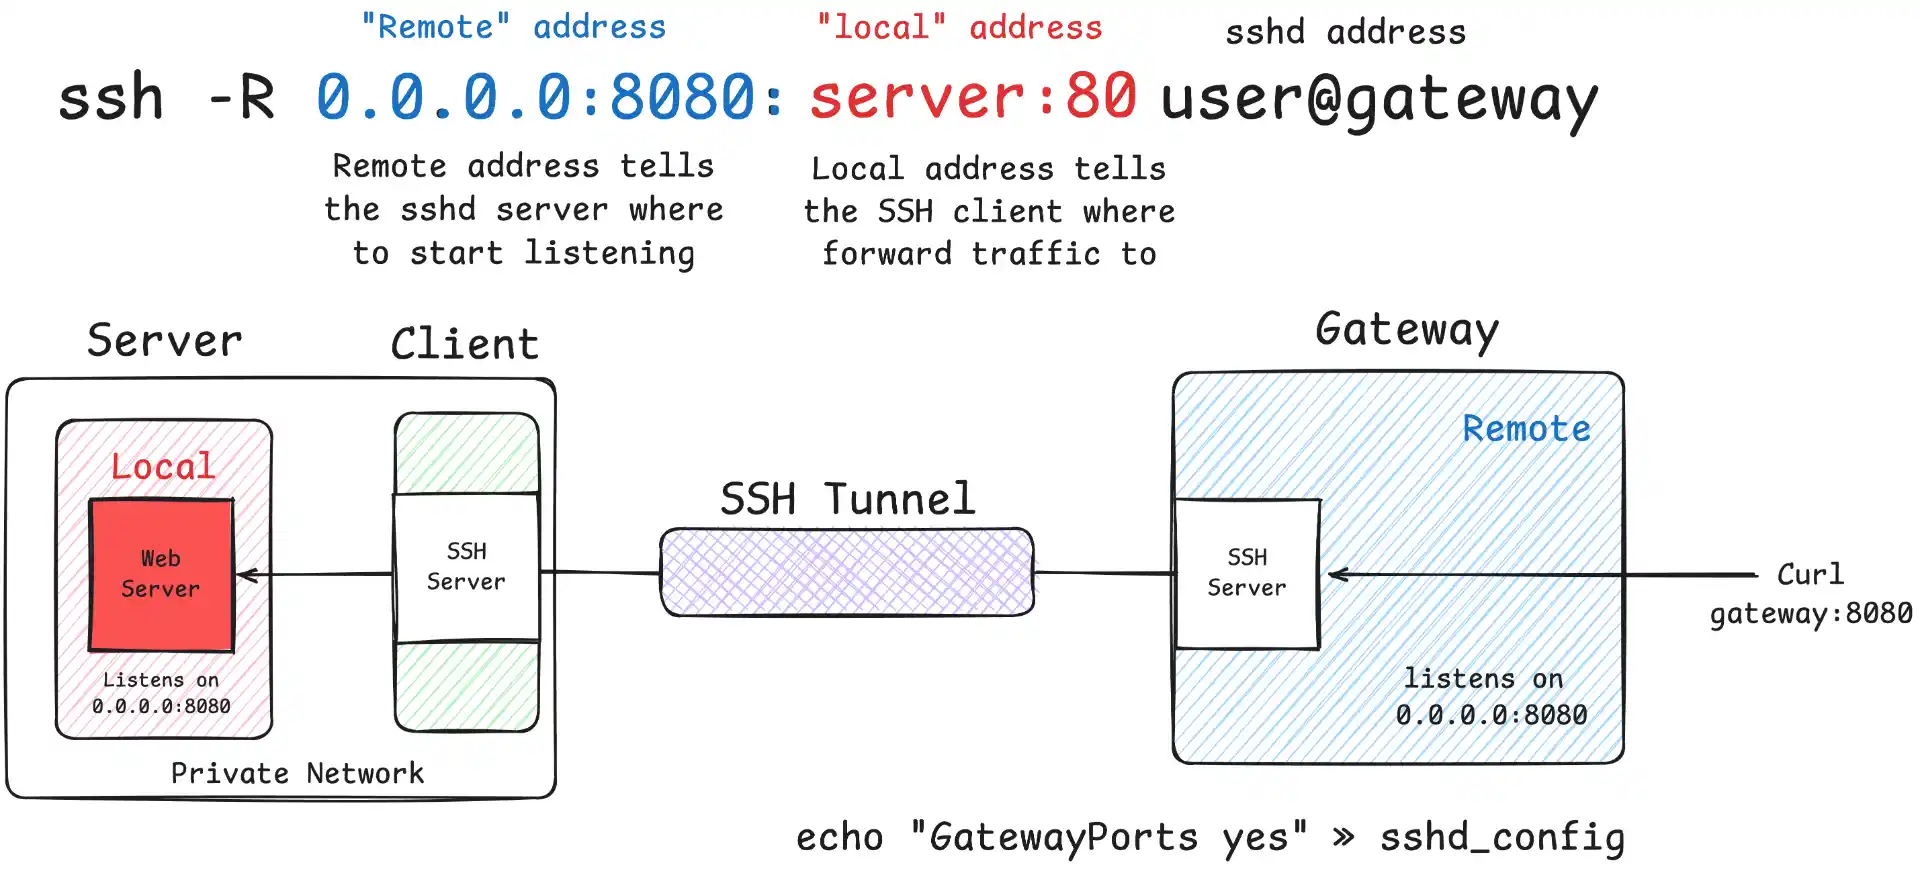
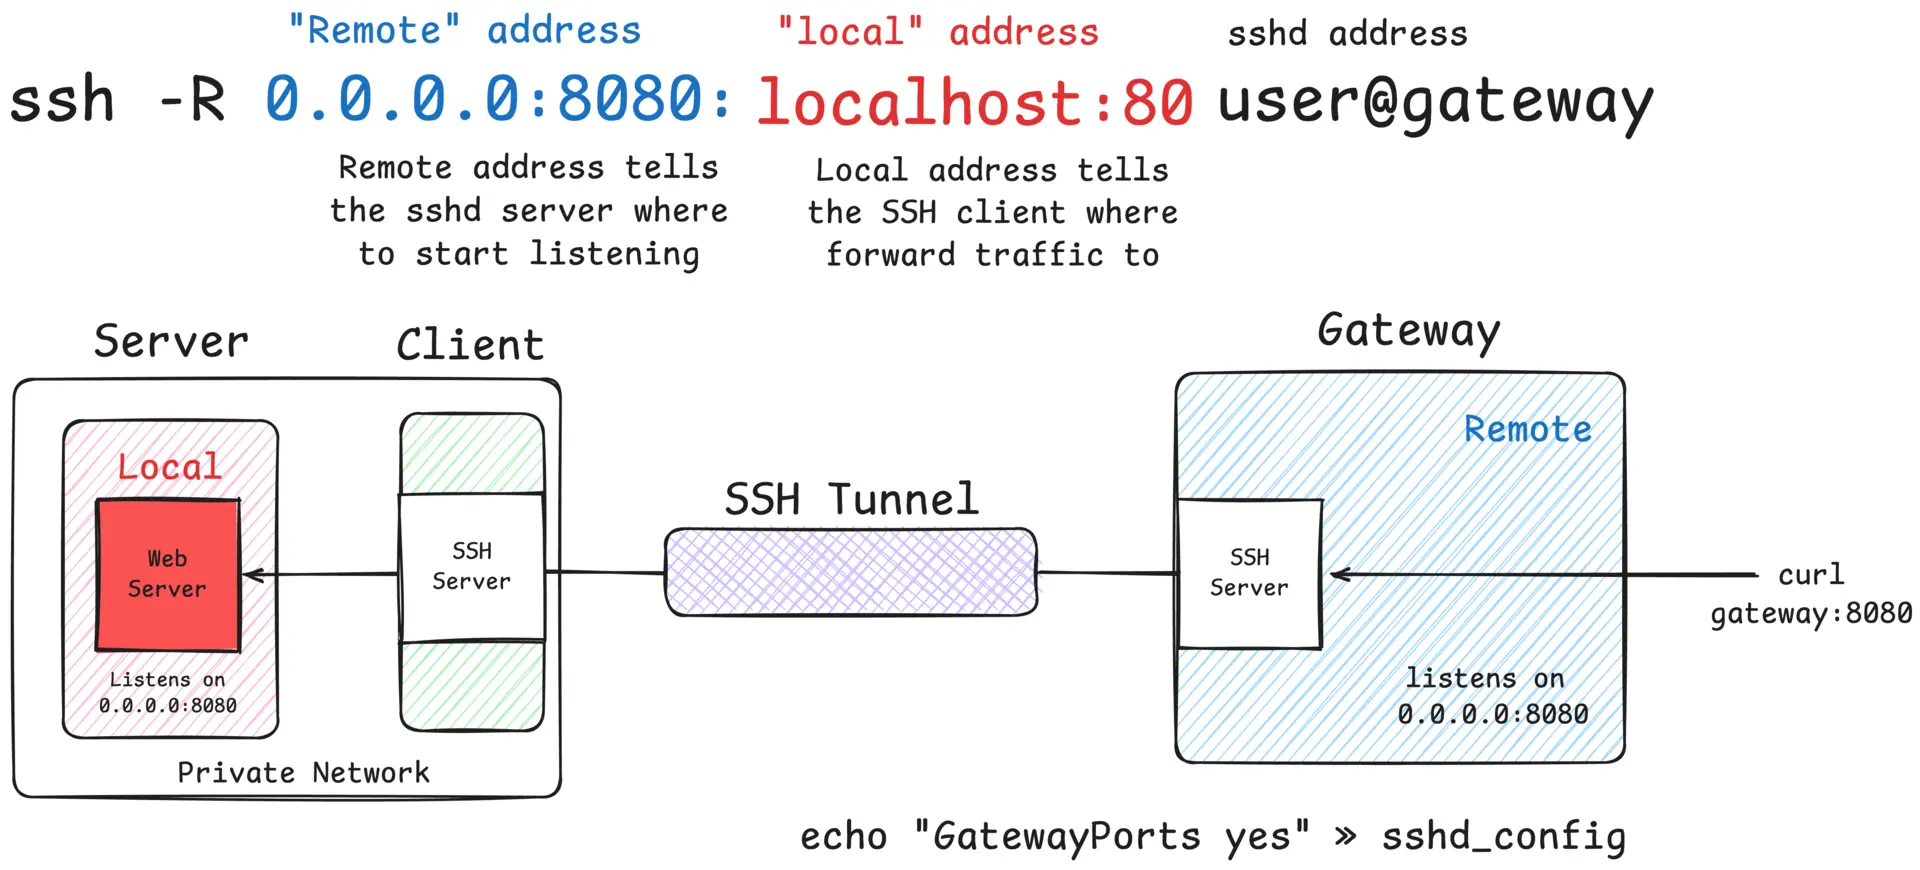
Update SSH Port Forwarding guide: correct command examples, enhance image references, and improve clarity in explanations.

diff --git a/content/blog/ssh_port_forwarding.md b/content/blog/ssh_port_forwarding.md
@@ -27,7 +27,7 @@ SSH port forwarding is one of those tools that seems intimidating at first but b
 
 2. **Remote forwarding**:
    ```bash
-   ssh -R 0.0.0.0:8080:server:80 user@gateway
+   ssh -R 0.0.0.0:8080:localhost:80 user@gateway
    ```
    Expose local service to remote server
 
@@ -79,18 +79,18 @@ Now you can connect to `localhost:5432` on your laptop, and it'll be as if you'r
 Remote port forwarding works in the opposite direction. It forwards a port on the remote server back to your local machine. This is super handy when you're developing something locally and need to share it with someone else, or when you need to expose a local service to a remote network. For a deeper dive into remote tunneling, check out our {{< link href="https://pinggy.io/blog/ssh_reverse_tunnelling/" >}}SSH reverse tunneling guide{{< /link >}}.
 
 ```bash
-ssh -R 0.0.0.0:8080:server:80 user@gateway
+ssh -R 0.0.0.0:8080:localhost:80 user@gateway
 ```
 
-{{< image "ssh_port_forwarding/remote_port_forwarding.webp" "Local Port Forwarding Example" >}}
+{{< image "ssh_port_forwarding/remote_port_forwarding.webp" "Remote Port Forwarding Example" >}}
 
 Imagine you're building a webhook handler for a payment processor, but you're developing it locally. The payment service needs to send webhooks to your application, but it can't reach your laptop directly. Remote port forwarding to the rescue:
 
 ```bash
-ssh -R 0.0.0.0:8080:server:80 john@my-public-server.com
+ssh -R 0.0.0.0:8080:locahost:80 john@my-public-server.com
 ```
 
-Now when the payment service sends a webhook to `my-public-server.com:8080`, it gets forwarded to your local development server running on port 3000. You can test webhooks in real-time without deploying anything.
+Now when the payment service sends a webhook to `my-public-server.com:8080`, it gets forwarded to your local development server running on port 80. You can test webhooks in real-time without deploying anything.
 
 ### Dynamic Port Forwarding (SOCKS Proxy)
 
@@ -203,7 +203,7 @@ Always use SSH key authentication instead of passwords when possible, especially
 
 ## Pinggy: quick tunnels when SSH port forwarding isn't an option
 
-Sometimes you just need to share a local app on the internet and you don't have a public SSH server, or you're behind CGNAT. {{< link href="https://pinggy.io" >}}Pinggy{{< /link >}} opens a reverse tunnel from your machine to a public URL—no router changes, public IP, or DNS required.
+Sometimes you just need to share a local app on the internet and you don't have a public SSH server, or you're behind CGNAT. {{< link href="https://pinggy.io" >}}Pinggy{{< /link >}} opens a reverse tunnel from your machine to a public URL - no router changes, public IP, or DNS required.
 
 Start a quick HTTP tunnel in seconds:
 
